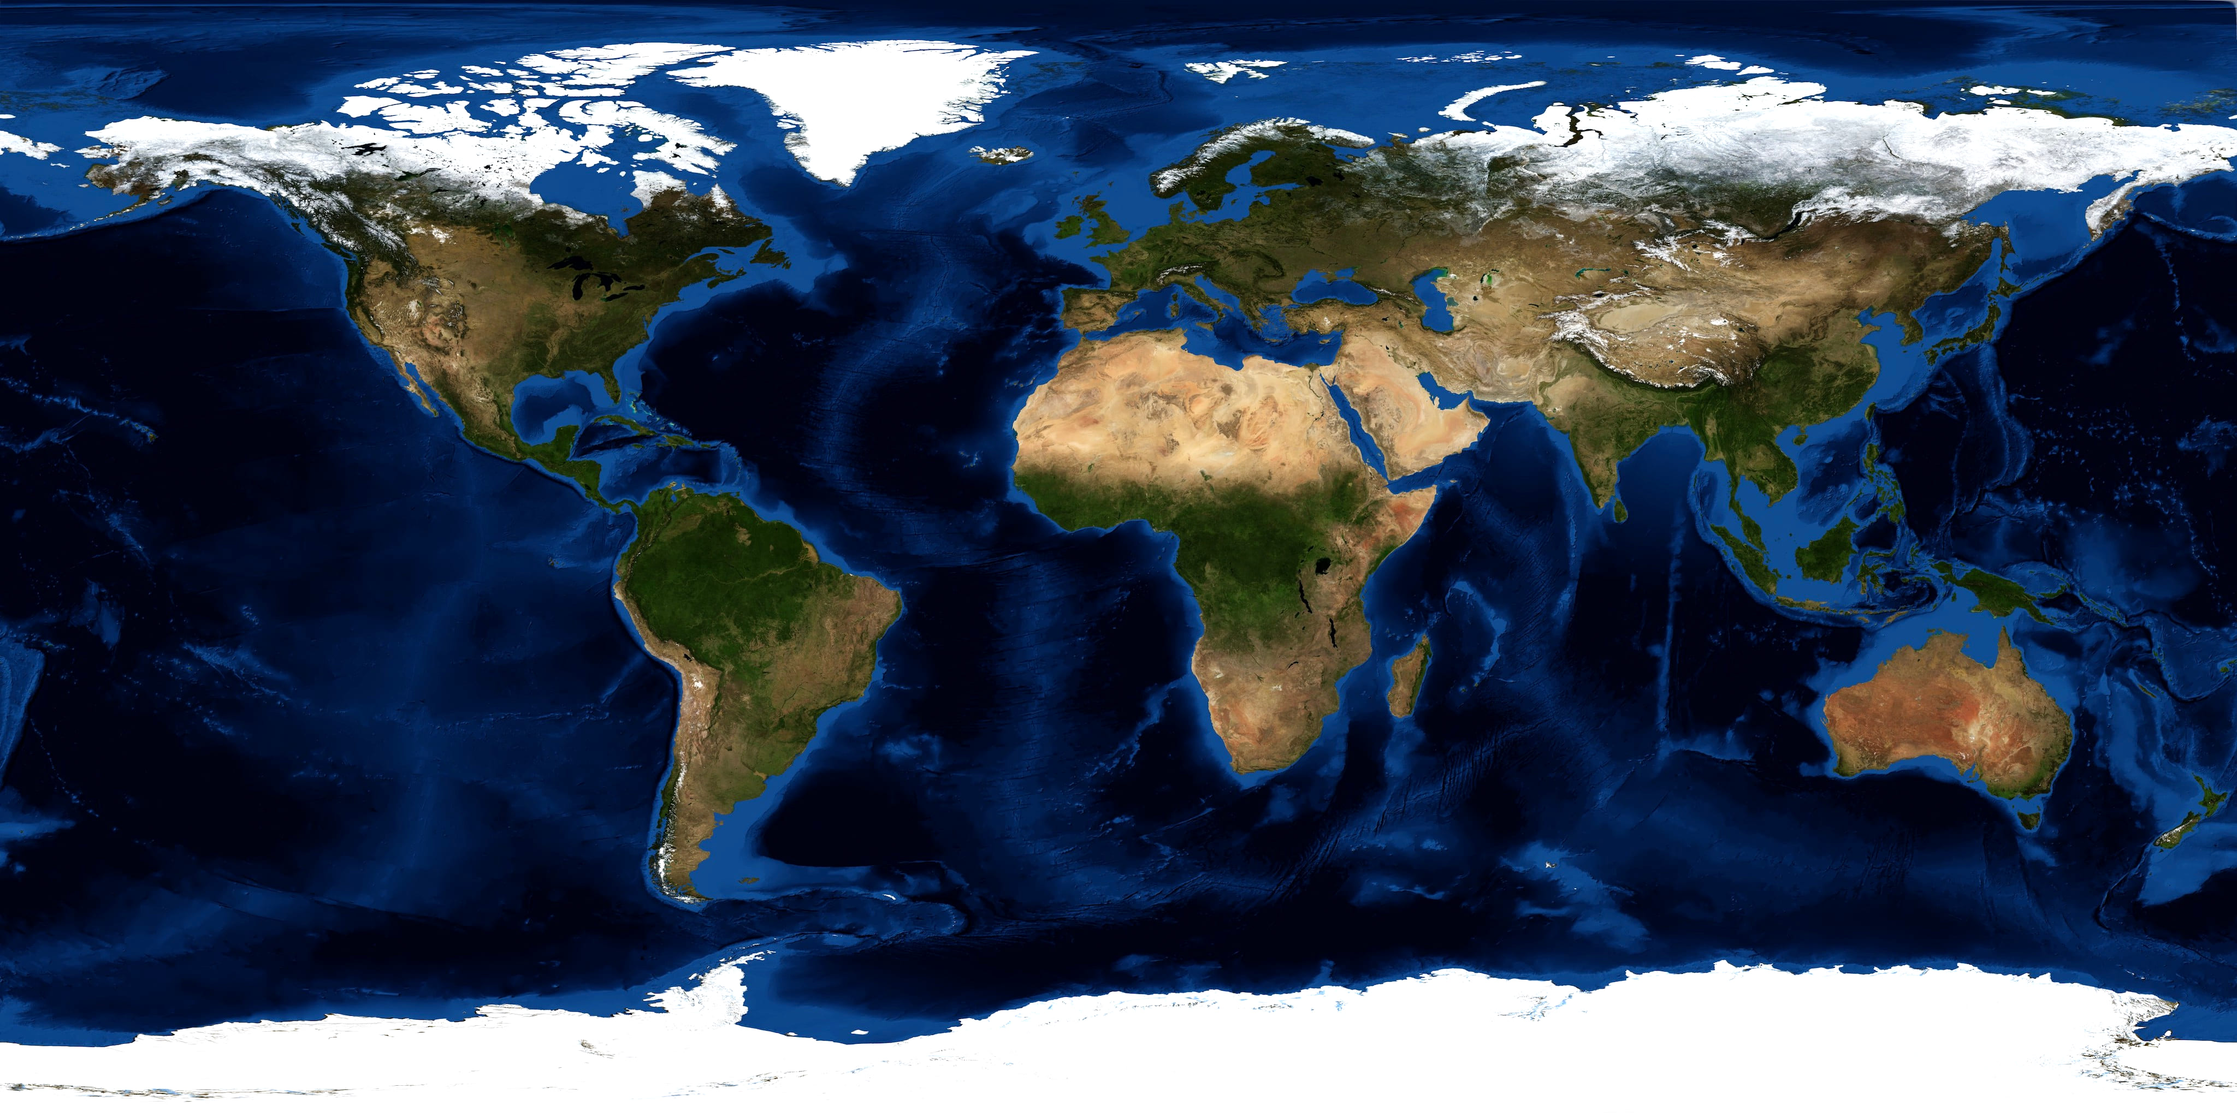
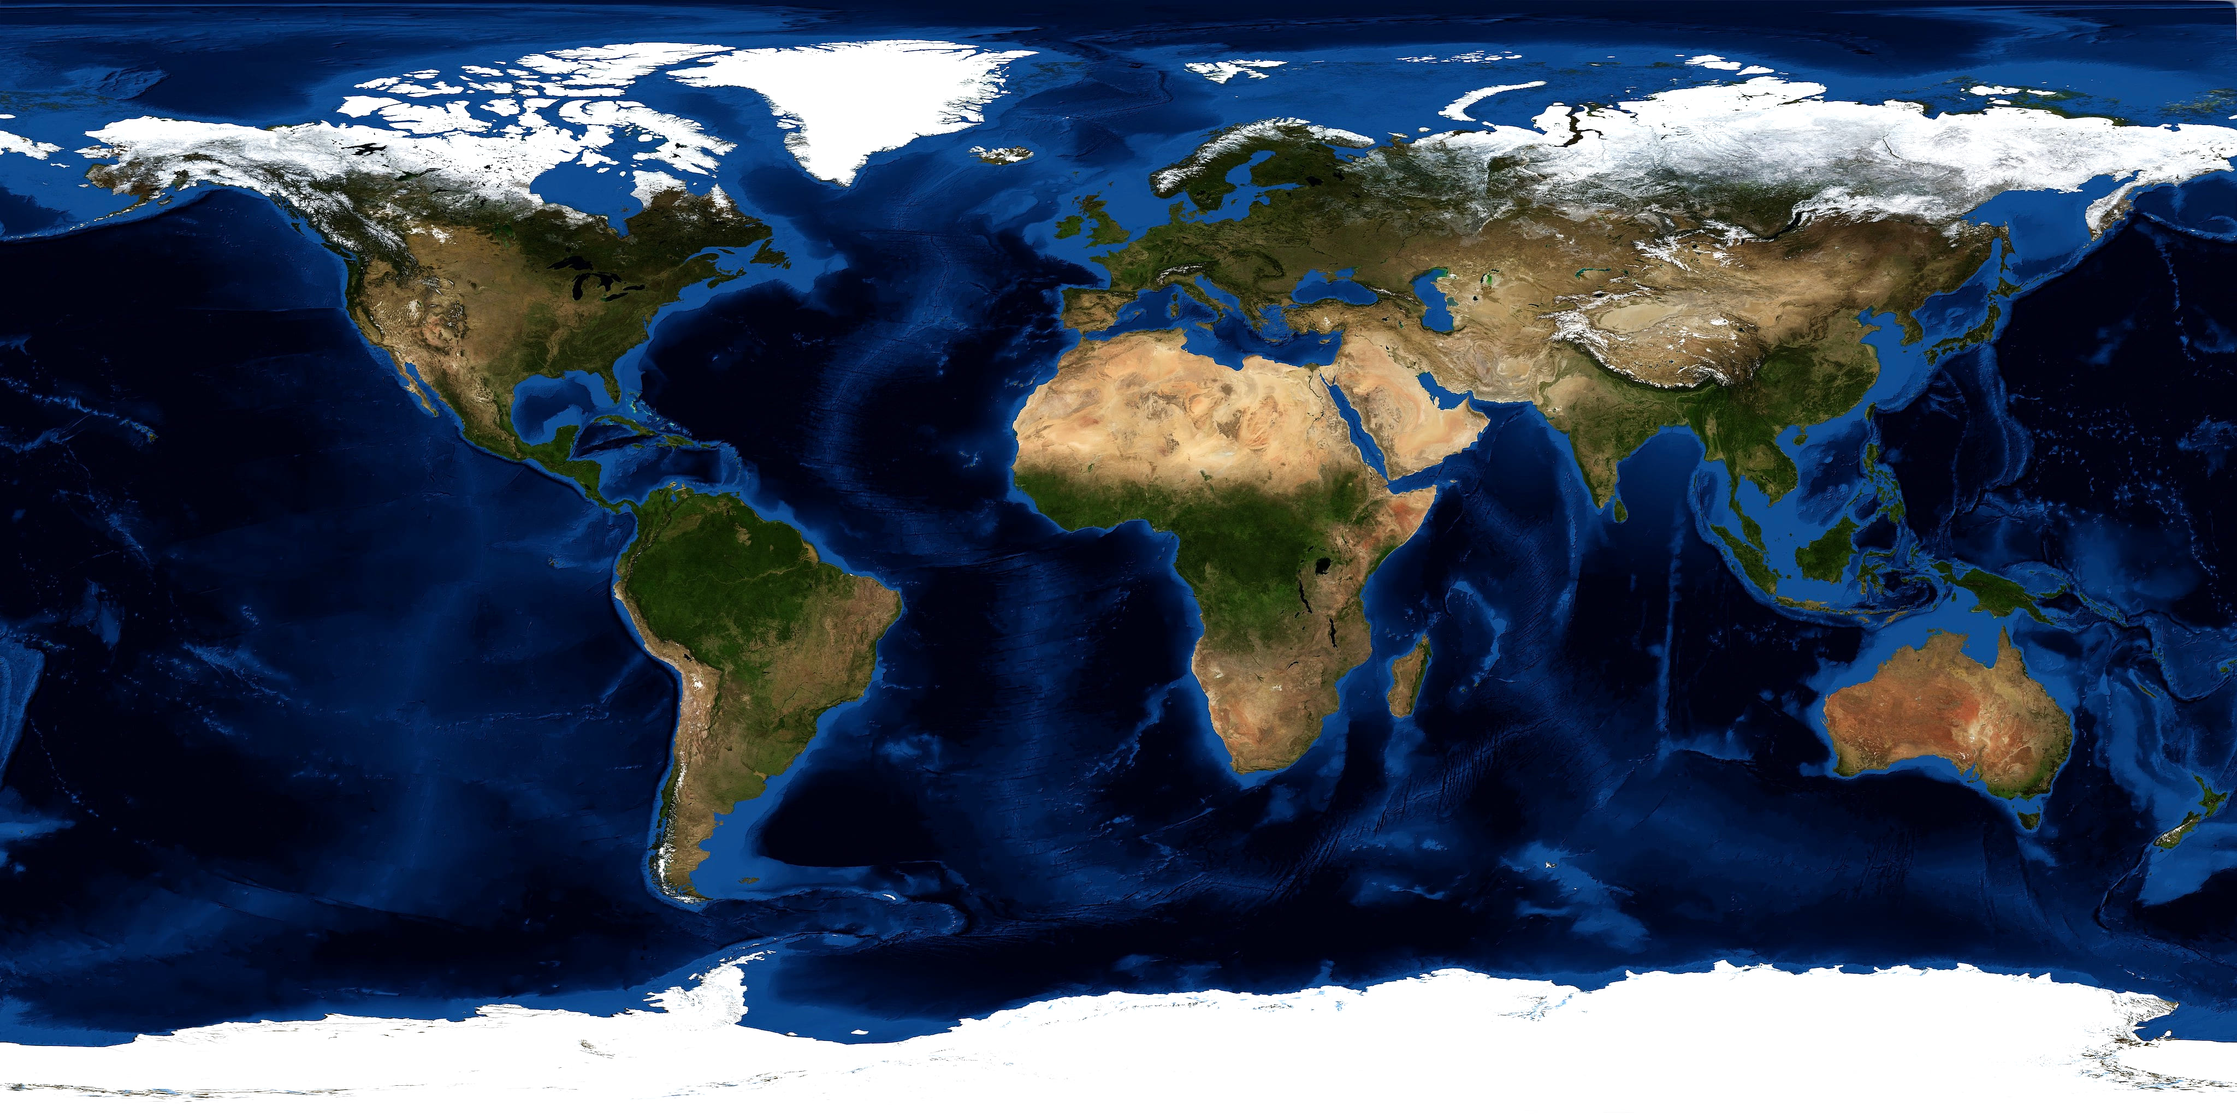
Clean satellite view, sharper plates, and a proximity-shaped score curve
Scoring

Replace the exponential decay with

    score = 100 / (1 + (km / 1500) ^ 1.6)

The old curve punished a near miss about as steeply as a wild one, so
landing in the right city still cost marks while landing on the wrong
continent paid oddly well. The new one is flat near zero and steepest
through the middle, which is how people actually judge a guess: right city
100, right region 95, right country 85, half marks at 1500 km, single
figures for the wrong continent. The bullseye radius goes 25 -> 50 km.

Calibrated against the two things MapTap's own players report: a score
above 900 is a good game, and perfect 100s are common enough to track. The
old curve made both close to unreachable - a strong game now lands in the
900s where it should.

Satellite view

Drop the country border overlay. Borders are not on the real planet and
coastlines are already legible in the plate; the outline style still has
them for when they are wanted. The graticule is dimmed to match, being the
only overlay left.

Imagery

Add a modest unsharp pass to the large plates, which measurably helps at
the magnifications this game reaches. Rework the texture build into tiers
driven by whatever source is available: it now prefers tools/source/earth.*
if present, never upscales, emits 8K and 16K tiers when the source can
support them, and writes assets/plates.js so the page only requests files
that exist. Plates above 4096 wide load lazily past 2.5x zoom and are
[…]

diff --git a/tools/build-textures.js b/tools/build-textures.js
@@ -1,41 +1,91 @@
 #!/usr/bin/env node
 /*
- * Generates assets/earth-1k.jpg and assets/earth-4k.jpg from NASA's Blue Marble
- * Next Generation plate (public domain), shipped inside the three-globe package.
+ * Generates the satellite plates in assets/, plus assets/plates.js listing
+ * what was produced so the page only ever requests files that exist.
  *
- * Two sizes: the small one paints almost immediately, the large one replaces it
- * once decoded.
+ * Source, in order of preference:
+ *   1. tools/source/earth.(jpg|png)  - drop your own plate here
+ *   2. NASA Blue Marble Next Generation at 4096x2048, bundled with three-globe
+ *
+ * The bundled plate is the highest resolution available offline. For sharper
+ * imagery when zoomed in, download an 8K or 16K equirectangular Earth (Solar
+ * System Scope publishes CC BY 4.0 ones, NASA Visible Earth the originals),
+ * save it as tools/source/earth.jpg and re-run this script - the extra tiers
+ * are generated and wired up automatically.
  */
 const fs = require('fs');
 const path = require('path');
 const sharp = require('sharp');
 
-// three-globe's "exports" map does not expose its example assets, so the file
-// is reached through node_modules directly rather than via require.resolve.
-const SRC = path.join(__dirname, 'node_modules', 'three-globe',
-                      'example', 'img', 'earth-blue-marble.jpg');
 const OUT = path.join(__dirname, '..', 'assets');
+const SOURCE_DIR = path.join(__dirname, 'source');
+const BUNDLED = path.join(__dirname, 'node_modules', 'three-globe',
+                          'example', 'img', 'earth-blue-marble.jpg');
 
 // The renderer darkens the limb, and the raw plate reads very dark once that
 // is applied on top of a dark page.
 const tone = (img) => img.modulate({ brightness: 1.10, saturation: 1.14 }).linear(1.04, -4);
 
-const SIZES = [
-  { name: 'earth-4k.jpg', width: 4096, quality: 82, chroma: '4:4:4' },
-  { name: 'earth-1k.jpg', width: 1024, quality: 80, chroma: '4:2:0' },
+function findSource() {
+  for (const name of ['earth.jpg', 'earth.jpeg', 'earth.png', 'earth.webp']) {
+    const p = path.join(SOURCE_DIR, name);
+    if (fs.existsSync(p)) return { path: p, custom: true };
+  }
+  if (fs.existsSync(BUNDLED)) return { path: BUNDLED, custom: false };
+  return null;
+}
+
+/* Only widths the source can actually support are emitted - upscaling would
+ * add bytes and no detail. */
+const TIERS = [
+  { width: 1024, quality: 80, chroma: '4:2:0', sharpen: 0,   defer: false },
+  { width: 4096, quality: 82, chroma: '4:4:4', sharpen: 0.7, defer: false },
+  { width: 8192, quality: 78, chroma: '4:2:0', sharpen: 0.7, defer: true },
+  { width: 16384, quality: 76, chroma: '4:2:0', sharpen: 0.6, defer: true },
 ];
 
 (async () => {
-  if (!fs.existsSync(SRC)) {
-    console.error('Source plate not found at ' + SRC + '\nRun `npm install` in tools/ first.');
+  const src = findSource();
+  if (!src) {
+    console.error('No source plate. Run `npm install` in tools/, or drop one at tools/source/earth.jpg');
     process.exit(1);
   }
+
+  const meta = await sharp(src.path).metadata();
+  console.log(`source: ${path.relative(path.join(__dirname, '..'), src.path)} ` +
+              `(${meta.width}x${meta.height})${src.custom ? '' : ' [bundled Blue Marble]'}`);
+
   fs.mkdirSync(OUT, { recursive: true });
-  for (const s of SIZES) {
-    const dest = path.join(OUT, s.name);
-    await tone(sharp(SRC).resize(s.width, s.width / 2, { kernel: 'lanczos3' }))
-      .jpeg({ quality: s.quality, mozjpeg: true, chromaSubsampling: s.chroma })
-      .toFile(dest);
-    console.log(`${s.name.padEnd(14)} ${s.width}x${s.width / 2}  ${(fs.statSync(dest).size / 1024).toFixed(0)} KB`);
+
+  const produced = [];
+  for (const tier of TIERS) {
+    if (tier.width > meta.width) continue;          // never upscale
+    const name = `earth-${tier.width >= 1024 ? (tier.width / 1024) + 'k' : tier.width}.jpg`;
+    const dest = path.join(OUT, name);
+    let pipe = tone(sharp(src.path).resize(tier.width, tier.width / 2, { kernel: 'lanczos3' }));
+    // A little unsharp on the big tiers pushes back against the softness of
+    // magnifying a plate well past its native resolution.
+    if (tier.sharpen) pipe = pipe.sharpen({ sigma: tier.sharpen });
+    await pipe.jpeg({ quality: tier.quality, mozjpeg: true, chromaSubsampling: tier.chroma })
+              .toFile(dest);
+    const kb = fs.statSync(dest).size / 1024;
+    produced.push({ url: 'assets/' + name, width: tier.width, defer: tier.defer });
+    console.log(`  ${name.padEnd(14)} ${tier.width}x${tier.width / 2}  ${kb.toFixed(0)} KB` +
+                (tier.defer ? '  (loaded on zoom)' : ''));
   }
+
+  // Remove tiers from a previous, larger source so the page never 404s.
+  for (const f of fs.readdirSync(OUT)) {
+    if (/^earth-\d+k\.jpg$/.test(f) && !produced.some((p) => p.url.endsWith(f))) {
+      fs.unlinkSync(path.join(OUT, f));
+      console.log(`  removed stale ${f}`);
+    }
+  }
+
+  const js =
+    '/* Generated by tools/build-textures.js - do not edit by hand.\n' +
+    '   Satellite plates available to the page, smallest first. */\n' +
+    'window.MT_PLATES = ' + JSON.stringify(produced) + ';\n';
+  fs.writeFileSync(path.join(OUT, 'plates.js'), js);
+  console.log(`  plates.js      ${produced.length} tier(s)`);
 })();

diff --git a/js/puzzle.js b/js/puzzle.js
@@ -5,8 +5,9 @@
   var ROUNDS = 5;
   var MULTIPLIERS = [1, 1, 2, 3, 3];        // sums to 10 -> 1000 points a game
   var MAX_SCORE = 1000;
-  var DECAY_KM = 1500;                      // half marks at ~1040 km
-  var BULLSEYE_KM = 25;                     // close enough is a clean 100
+  var HALF_MARKS_KM = 1500;                 // the distance worth exactly 50
+  var FALLOFF = 1.6;                        // >1 keeps near misses cheap
+  var BULLSEYE_KM = 50;                     // found the city, take the 100
 
   /* Day 1 is the day the clone went live. Games are numbered from there. */
   var EPOCH = { y: 2026, m: 7, d: 27 };     // 27 Aug 2026, month is 0-based
@@ -99,11 +100,30 @@
   /* ------------------------------------------------------------------ *
    * Scoring
    * ------------------------------------------------------------------ */
-  /* 0-100 per round, decaying with distance, before the round multiplier. */
+  /* 0-100 per round, before the round multiplier.
+   *
+   *     score = 100 / (1 + (km / 1500) ^ 1.6)
+   *
+   * A plain exponential decay reads wrong to players: it punishes a near miss
+   * about as steeply as a wild one, so landing in the right city still costs
+   * you marks while landing on the wrong continent is oddly well paid. This
+   * curve is deliberately flat near zero and steepest through the middle,
+   * which matches how people actually judge a guess:
+   *
+   *   right city   (<50 km)     100      you found it
+   *   right region (~250 km)     95
+   *   right country(~500 km)     85
+   *   half marks   (1500 km)     50
+   *   right continent (~3000)    25
+   *   wrong continent (8000+)     6      and fading to nothing
+   *
+   * It also puts a strong game in the 900s, which is where MapTap's own
+   * players describe a good score sitting.
+   */
   function baseScore(distanceKm) {
     if (distanceKm <= BULLSEYE_KM) return 100;
-    var v = 100 * Math.exp(-distanceKm / DECAY_KM);
-    return v < 0.5 ? 0 : Math.round(v);
+    var v = 100 / (1 + Math.pow(distanceKm / HALF_MARKS_KM, FALLOFF));
+    return v < 1 ? 0 : Math.round(v);
   }
 
   function scoreRound(round, guessLat, guessLon) {
@@ -145,6 +165,7 @@
   MT.puzzle = {
     ROUNDS: ROUNDS,
     BULLSEYE_KM: BULLSEYE_KM,
+    HALF_MARKS_KM: HALF_MARKS_KM,
     MULTIPLIERS: MULTIPLIERS,
     MAX_SCORE: MAX_SCORE,
     EPOCH: EPOCH,

diff --git a/js/globe.js b/js/globe.js
@@ -18,9 +18,8 @@
     answer: '#5fd6a0',
     arc: 'rgba(244,162,89,0.85)',
     pin: '#ffd166',
-    satBorder: 'rgba(255,255,255,0.30)',
-    satGraticule: 'rgba(255,255,255,0.09)',
-    satEquator: 'rgba(255,255,255,0.18)'
+    satGraticule: 'rgba(255,255,255,0.055)',
+    satEquator: 'rgba(255,255,255,0.11)'
   };
 
   var MAX_ZOOM = 45;
@@ -97,9 +96,12 @@
     this.requestRender();
   };
 
+  var DEFERRED_PLATE_ZOOM = 2.5;
+
   Globe.prototype.setZoom = function (z) {
     this.zoom = geo.clamp(z, 1, MAX_ZOOM);
     this.camera.radius = this.baseRadius * this.zoom;
+    if (this.satellite && this.zoom >= DEFERRED_PLATE_ZOOM) this.satellite.loadDeferred();
     this.requestRender();
   };
 
@@ -399,7 +401,9 @@
     ctx.clip();
 
     this._drawGraticule(ctx, satellite);
-    this._drawLand(ctx, satellite);
+    // Satellite view is the imagery alone. Coastlines are already visible in
+    // the plate, and country borders are not on the real planet.
+    if (!satellite) this._drawLand(ctx);
 
     ctx.restore();
 
@@ -462,7 +466,7 @@
     return this._useHighDetail;
   };
 
-  Globe.prototype._drawLand = function (ctx, satellite) {
+  Globe.prototype._drawLand = function (ctx) {
     var world = MT.world.load();
     var rings = this._wantHighDetail() ? world.high : world.low;
     var cam = this.camera;
@@ -539,16 +543,14 @@
       ctx.closePath();
     }
 
-    if (!satellite) {
-      var lit = ctx.createRadialGradient(cx - R * 0.32, cy - R * 0.36, R * 0.04, cx, cy, R * 1.05);
-      lit.addColorStop(0, THEME.landLit);
-      lit.addColorStop(1, THEME.land);
-      ctx.fillStyle = lit;
-      ctx.fill('evenodd');
-    }
+    var lit = ctx.createRadialGradient(cx - R * 0.32, cy - R * 0.36, R * 0.04, cx, cy, R * 1.05);
+    lit.addColorStop(0, THEME.landLit);
+    lit.addColorStop(1, THEME.land);
+    ctx.fillStyle = lit;
+    ctx.fill('evenodd');
 
-    ctx.lineWidth = satellite ? (this.zoom > 6 ? 1.1 : 0.8) : (this.zoom > 6 ? 0.9 : 0.6);
-    ctx.strokeStyle = satellite ? THEME.satBorder : THEME.border;
+    ctx.lineWidth = this.zoom > 6 ? 0.9 : 0.6;
+    ctx.strokeStyle = THEME.border;
     ctx.stroke();
   };
 

diff --git a/js/satellite.js b/js/satellite.js
@@ -113,6 +113,8 @@
     this.ready = false;
     this.failed = false;
     this.resolution = 0;
+    this.maxTextureSize = 0;
+    this._deferred = null;
 
     var attrs = { alpha: true, antialias: true, depth: false, premultipliedAlpha: false };
     var gl = canvas.getContext('webgl', attrs) || canvas.getContext('experimental-webgl', attrs);
@@ -174,11 +176,33 @@
     this._basis = new Float64Array(9);
   }
 
-  /* Loads the small plate for an immediate picture, then the full one. */
+  /* Loads the small plate for an immediate picture, then progressively larger
+   * ones. Plates wider than the GPU can hold are skipped rather than failing
+   * at upload time - plenty of mobile GPUs still cap out at 4096. */
   SatelliteLayer.prototype.loadTextures = function (sources) {
+    var max = this.gl.getParameter(this.gl.MAX_TEXTURE_SIZE) || 4096;
+    this.maxTextureSize = max;
+
+    var usable = (sources || []).filter(function (s) { return s.width <= max; });
+    usable.sort(function (a, b) { return a.width - b.width; });
+
+    this._deferred = usable.filter(function (s) { return s.defer; });
+    this._runChain(usable.filter(function (s) { return !s.defer; }));
+  };
+
+  /* Large plates are worth several megabytes, so they wait until the player
+   * actually zooms in far enough to see the difference. */
+  SatelliteLayer.prototype.loadDeferred = function () {
+    if (!this._deferred || !this._deferred.length) return;
+    var pending = this._deferred;
+    this._deferred = null;
+    this._runChain(pending);
+  };
+
+  SatelliteLayer.prototype._runChain = function (list) {
     var self = this;
     var chain = Promise.resolve();
-    sources.forEach(function (src) {
+    list.forEach(function (src) {
       chain = chain.then(function () { return self._loadOne(src.url, src.width); });
     });
     chain.catch(function () { /* a missing plate just leaves the last good one */ });

diff --git a/js/app.js b/js/app.js
@@ -122,12 +122,13 @@
         '<li>Later rounds are worth more: <strong>×1, ×1, ×2, ×3, ×3</strong> — a perfect game is <strong>1000</strong>.</li>' +
       '</ol>' +
       '<h3>Scoring</h3>' +
+      '<p>Near misses are cheap; wild ones are not.</p>' +
       '<ul>' +
-        '<li>Within 25 km — a clean <strong>100</strong></li>' +
-        '<li>100 km — about <strong>94</strong></li>' +
-        '<li>500 km — about <strong>72</strong></li>' +
-        '<li>1000 km — about <strong>51</strong></li>' +
-        '<li>Past 5000 km there is almost nothing left</li>' +
+        '<li>Right city, within 50 km — a clean <strong>100</strong></li>' +
+        '<li>Right region, 250 km — about <strong>95</strong></li>' +
+        '<li>Right country, 500 km — about <strong>85</strong></li>' +
+        '<li>1500 km — half marks, <strong>50</strong></li>' +
+        '<li>Wrong continent — single figures</li>' +
       '</ul>' +
       '<h3>Daily and practice</h3>' +
       '<p>Every game has a number. <strong>Daily #' + puzzle.todayNumber() + '</strong> is the same for ' +
@@ -476,11 +477,9 @@
       onTap: onTap,
       glCanvas: $('globeGL'),
       style: MT.storage.getStyle(),
-      // The small plate paints almost immediately; the full one replaces it.
-      textures: [
-        { url: 'assets/earth-1k.jpg', width: 1024 },
-        { url: 'assets/earth-4k.jpg', width: 4096 }
-      ]
+      // Generated by tools/build-textures.js: smallest plate first, so a
+      // picture appears immediately and sharpens as the larger ones arrive.
+      textures: window.MT_PLATES || []
     });
     reflectStyleButton();
     MT.world.load();

diff --git a/assets/plates.js b/assets/plates.js
@@ -1,0 +1,3 @@
+/* Generated by tools/build-textures.js - do not edit by hand.
+   Satellite plates available to the page, smallest first. */
+window.MT_PLATES = [{"url":"assets/earth-1k.jpg","width":1024,"defer":false},{"url":"assets/earth-4k.jpg","width":4096,"defer":false}];

diff --git a/index.html b/index.html
@@ -79,6 +79,7 @@
   <div class="toast" id="toast" hidden></div>
 </div>
 
+<script src="assets/plates.js"></script>
 <script src="data/world.js"></script>
 <script src="data/cities.js"></script>
 <script src="js/geo.js"></script>

diff --git a/README.md b/README.md
@@ -23,10 +23,25 @@ so it works straight off the filesystem with no server at all.
 - **Five rounds**, each harder than the last.
 - Each round scores **0–100** by distance, then a round multiplier: **×1, ×1, ×2, ×3, ×3**.
   A perfect game is **1000**.
-- Within 25 km is a clean 100. Roughly: 100 km → 94, 500 km → 72, 1000 km → 51,
-  2000 km → 26, past 5000 km there is nothing left.
 
-Scores decay as `100 · e^(−km/1500)`.
+```
+score = 100 / (1 + (km / 1500) ^ 1.6)
+```
+
+| you were | score | |
+| --- | --- | --- |
+| within 50 km | **100** | right city |
+| 250 km | 95 | right region |
+| 500 km | 85 | right country |
+| 1 500 km | 50 | half marks |
+| 3 000 km | 25 | right continent |
+| 8 000 km+ | <10 | wrong continent |
+
+The curve is deliberately flat near zero and steepest through the middle. A plain
+exponential decay reads wrong to players: it punishes a near miss about as steeply as a
+wild one, so landing in the right city still costs you marks while landing on the wrong
+continent is oddly well paid. This shape puts a strong game in the 900s, which is where
+MapTap's own players put a good score.
 
 ## Game numbers
 
@@ -68,7 +83,8 @@ js/share.js         the copy-and-paste result block
 js/app.js           screen flow and DOM
 data/world.js       generated country polygons
 data/cities.js      generated city pool
-assets/earth-*.jpg  satellite plates (1k placeholder, 4k full)
+assets/earth-*.jpg  satellite plates, smallest first
+assets/plates.js    generated list of which plates exist
 tools/build-data.js regenerates both data files
 tools/build-textures.js regenerates the satellite plates
 server.js           zero-dependency static server
@@ -89,9 +105,19 @@ The plate loads in two steps: a 75 KB 1024x512 version paints almost immediately
 the vector globe stands in, so there is never an empty disc. The 🛰 button switches between
 the two views and the choice is remembered.
 
-Country outlines stay vector even in satellite view. Imagery inevitably goes soft when you
-magnify a 4096-pixel-wide plate 20x, so the crisp overlay is what carries the precision when
-you are placing a pin.
+Satellite view shows the imagery alone — no country borders, since they are not on the real
+planet, and coastlines are already legible in the plate. The outline style (the 🛰 button)
+keeps them for when you want them.
+
+**Raising the imagery resolution.** The bundled plate is 4096x2048, which is the largest
+that ships with `three-globe` and the best available offline. Magnifying it 20x inevitably
+softens it. To go sharper, download an 8K or 16K equirectangular Earth — [Solar System
+Scope](https://www.solarsystemscope.com/textures/) publishes CC BY 4.0 ones, [NASA Visible
+Earth](https://visibleearth.nasa.gov/collection/1484/blue-marble) the originals — save it as
+`tools/source/earth.jpg` and run `npm run build:textures`. The extra tiers are generated,
+listed in `assets/plates.js` and picked up automatically; nothing else needs changing.
+Plates above 4096 wide are fetched only once you zoom past 2.5x, and are skipped entirely on
+GPUs whose `MAX_TEXTURE_SIZE` cannot hold them.
 
 **The globe** is a real orthographic projection rather than an image or a map library.
 Dragging changes the geographic point at the centre of the disc; a tap is unprojected back
